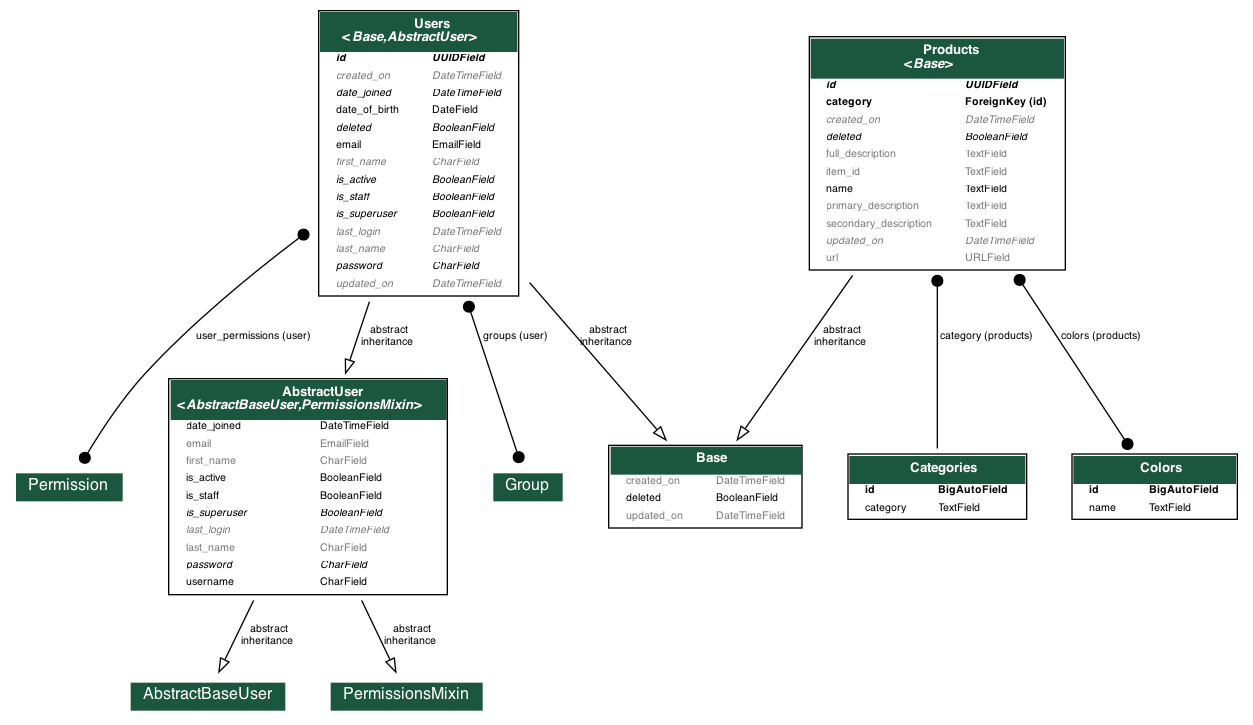
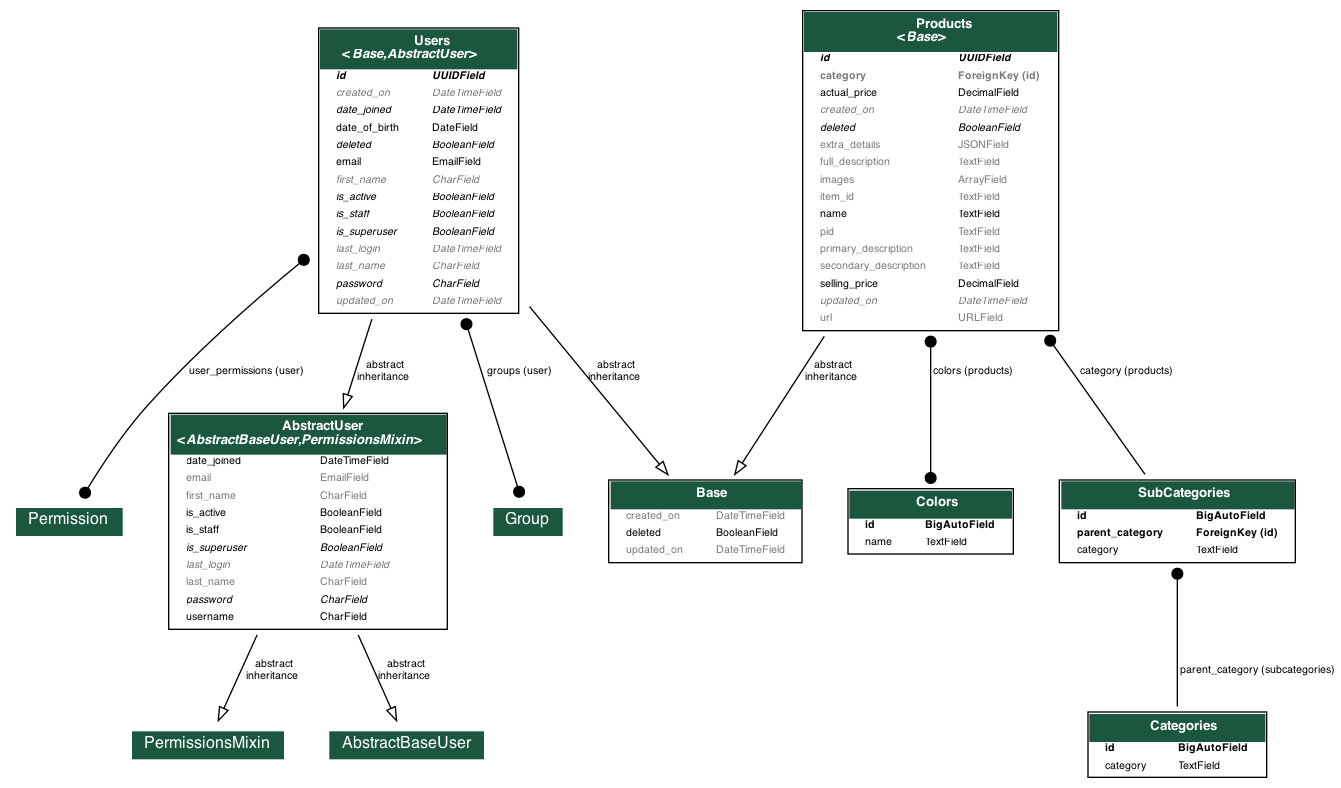
updates and improvements

diff --git a/artifact/backend/inventory/admin/products.py b/artifact/backend/inventory/admin/products.py
@@ -35,13 +35,7 @@ class ProductsAdmin(admin.ModelAdmin):
     }
 
     def import_products(self, request, *args, **kwargs):
-        """Action for importing products based on a CSV file.
-
-        If the request is not POST, we return the `ProductImportForm`
-        If the request POST,
-            - Validate the form
-            - Validate the headers on the from's `import_file` are correct
-            - Create users if they do not exist
+        """Action for importing products based on a XLSX file.
 
         :param Request request: The request object
         :return TemplateResponse: Contains the form and context
@@ -61,13 +55,6 @@ class ProductsAdmin(admin.ModelAdmin):
         if request.POST and form.is_valid():
 
             _file = form.cleaned_data["import_file"]
-
-            # header_valid = self.validate_headers(reader.fieldnames)
-            header_valid = True
-            if not header_valid:
-                messages.error(request, "Expected CSV headers are missing")
-                context["errors"].append("Invalid CSV headers")
-                return TemplateResponse(request, [self.import_products_template], context)
 
             ImportProducts(_file).start()
             messages.success(request, "Products have been imported.")

diff --git a/artifact/backend/inventory/migrations/0006_alter_products_category_alter_products_colors_and_more.py b/artifact/backend/inventory/migrations/0006_alter_products_category_alter_products_colors_and_more.py
@@ -1,0 +1,35 @@
+# Generated by Django 4.1.7 on 2023-09-24 11:21
+
+import django.contrib.postgres.fields
+from django.db import migrations, models
+import django.db.models.deletion
+
+
+class Migration(migrations.Migration):
+
+    dependencies = [
+        ('inventory', '0005_alter_products_actual_price_and_more'),
+    ]
+
+    operations = [
+        migrations.AlterField(
+            model_name='products',
+            name='category',
+            field=models.ForeignKey(blank=True, default=None, null=True, on_delete=django.db.models.deletion.DO_NOTHING, to='inventory.subcategories'),
+        ),
+        migrations.AlterField(
+            model_name='products',
+            name='colors',
+            field=models.ManyToManyField(blank=True, to='inventory.colors'),
+        ),
+        migrations.AlterField(
+            model_name='products',
+            name='extra_details',
+            field=models.JSONField(blank=True, default=list),
+        ),
+        migrations.AlterField(
+            model_name='products',
+            name='images',
+            field=django.contrib.postgres.fields.ArrayField(base_field=models.URLField(blank=True, default=''), blank=True, default=list, size=None),
+        ),
+    ]

diff --git a/artifact/backend/inventory/views/products.py b/artifact/backend/inventory/views/products.py
@@ -12,14 +12,21 @@ class ProductsSearchViewSet(viewsets.ViewSet):
         return {
             "track_total_hits": True,
             "query": {
-                "multi_match": {
-                    "query": query_params.get("q", ""),
-                    "fields": ["name", "primary_description", "secondary_description", "full_description"],
-                    "operator": "or",
-                    "zero_terms_query": "all",
-                    "fuzziness": "AUTO",
+                "bool": {
+                    "must": {
+                        "multi_match": {
+                            "query": query_params.get("q", ""),
+                            "fields": ["name", "primary_description", "secondary_description", "full_description"],
+                            "operator": "or",
+                            "zero_terms_query": "all",
+                            "fuzziness": "AUTO",
+                        },
+                    },
+                    "filter": {
+                        "term": {"deleted": False}
+                    }
                 }
-            }
+            },
         }
 
     @property

diff --git a/artifact/backend/core/management/commands/create_indices.py b/artifact/backend/core/management/commands/create_indices.py
@@ -10,7 +10,10 @@ class Command(BaseCommand):
     def handle(self, *args, **options):
 
         for IndexClass in INDEX_CLASSES.values():
-            es_client.ingest.put_pipeline(id=IndexClass.pipeline_name, body=IndexClass.pipeline_body)
+            es_client.ingest.put_pipeline(
+                id=IndexClass.pipeline_name,
+                body=IndexClass.pipeline_body
+            )
             es_client.indices.create(
                 index=IndexClass.index,
                 body={
